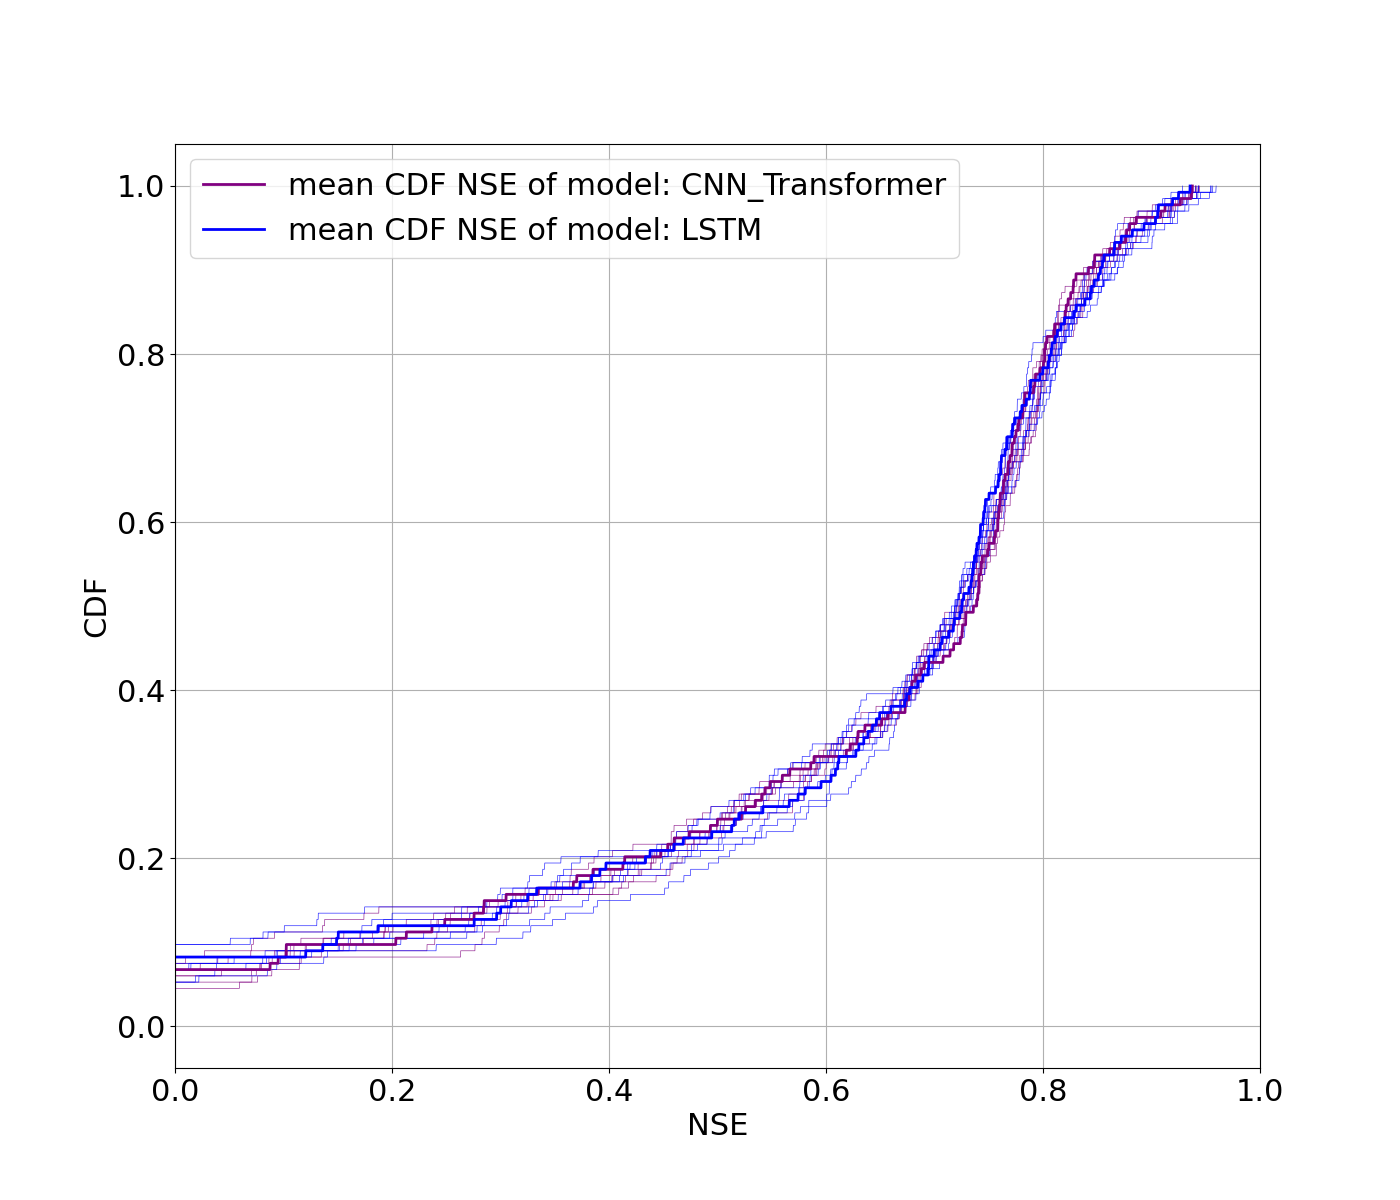
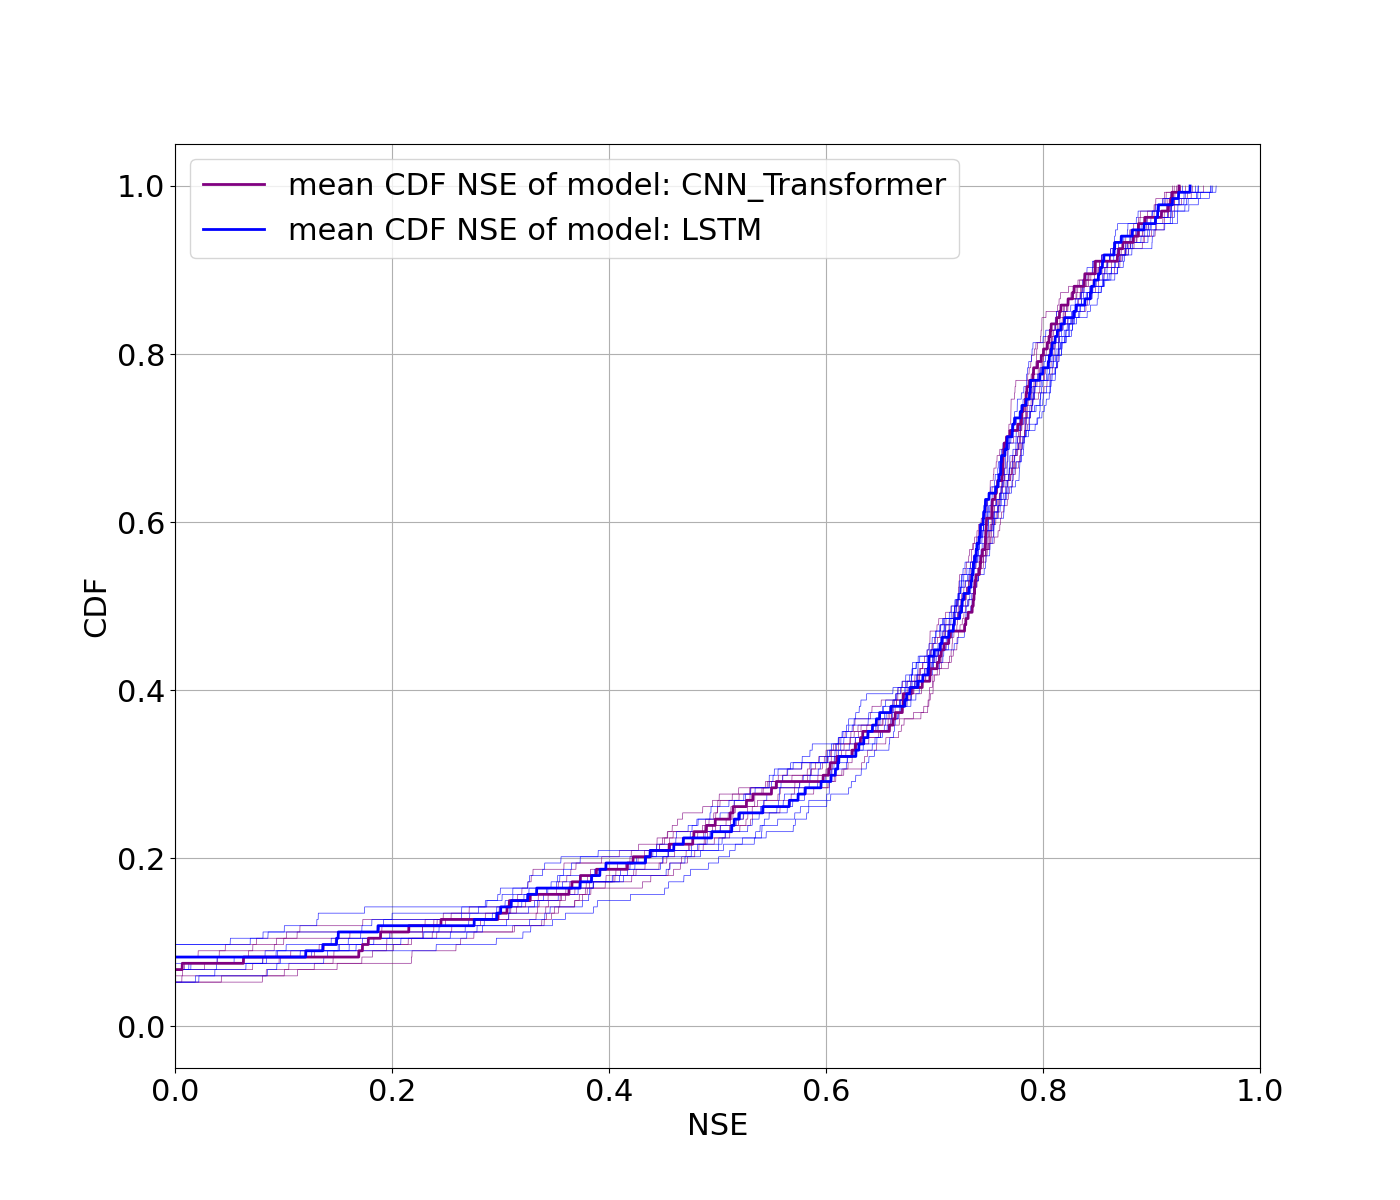
adding more to the analysis + replacing with results of new Transformer model

diff --git a/src/analyse_results_NSE_basins.py b/src/analyse_results_NSE_basins.py
@@ -402,6 +402,8 @@ def create_class_activation_maps_explainable(checkpoint_path, model_name_for_com
         image_activation_with_margin = cv2.copyMakeBorder(image_activation, 10, 10, 10, 10, cv2.BORDER_CONSTANT,
                                                           value=(255, 255, 255))
         list_all_images.append(np.hstack([image_basin_with_margin, image_activation_with_margin]))
+        cv2.imwrite(f"./analysis_images/heat_maps/heat_map_basin_{basin_id}.png",
+                    np.hstack([image_basin_with_margin, image_activation_with_margin]))
     list_images_row = []
     list_rows = []
     num_images_in_row = 10
@@ -456,12 +458,12 @@ def main():
         plt.rc('font', size=14)
         plt.rcParams["figure.figsize"] = (12, 19)
         plt.rcParams["figure.autolayout"] = True
-        plot_lon_lat_on_world_map("17775252_17782018_17828539_17832148_17837642_18901364.csv",
+        plot_lon_lat_on_world_map("17775252_17782018_17828539_17832148_17837642_18941386.csv",
                                   model_name_for_comparison)
         create_class_activation_maps_explainable(f"../checkpoints/{checkpoint}.pt", model_name_for_comparison)
         create_integrated_gradients(f"../checkpoints/{checkpoint}.pt", model_name_for_comparison)
-        corr_df = analyse_features("17775252_17782018_17828539_17832148_17837642_18901364.csv",
-                                   "random_forest", model_name_for_comparison, with_std=False)
+        corr_df = analyse_features("17775252_17782018_17828539_17832148_17837642_18941386.csv",
+                                   "random_forest", model_name_for_comparison, with_std=True)
         corr_tables_list.append(corr_df)
     plot_images_side_by_side(model_names)
 

diff --git a/src/create_CDF_NSE_comparison_plot_from_slurm_output.py b/src/create_CDF_NSE_comparison_plot_from_slurm_output.py
@@ -151,7 +151,7 @@ def calc_dicts_from_all_runs_and_all_files(input_file_paths):
 
 def plot_NSE_CDF_graphs_my_code():
     input_file_names = ["slurm-17775252.out", "slurm-17782018.out", "slurm-17828539.out",
-                        "slurm-17832148.out", "slurm-17837642.out", "slurm-18901364.out"]
+                        "slurm-17832148.out", "slurm-17837642.out", "slurm-18941386.out"]
     input_file_paths = [Path(f"../slurm_output_files/slurm_files_ensemble_comparison/{file_name}").resolve() for
                         file_name in input_file_names]
     dict_all_runs_from_all_files, dict_avg_runs_from_all_files = calc_dicts_from_all_runs_and_all_files(

diff --git a/src/create_CSV_comparison_NSE_from_slurm_output.py b/src/create_CSV_comparison_NSE_from_slurm_output.py
@@ -82,7 +82,7 @@ def generate_csv_from_CAMELS_static_attr_files(static_data_folder):
 def main():
     generate_csv_from_CAMELS_static_attr_files("../data/CAMELS_US/camels_attributes_v2.0")
     generate_csv_from_output_file(["slurm-17775252.out", "slurm-17782018.out", "slurm-17828539.out",
-                                   "slurm-17832148.out", "slurm-17837642.out", "slurm-18901364.out"],
+                                   "slurm-17832148.out", "slurm-17837642.out", "slurm-18941386.out"],
                                   "../data/CAMELS_US/camels_attributes_v2.0/attributes_combined.csv")
 
 
